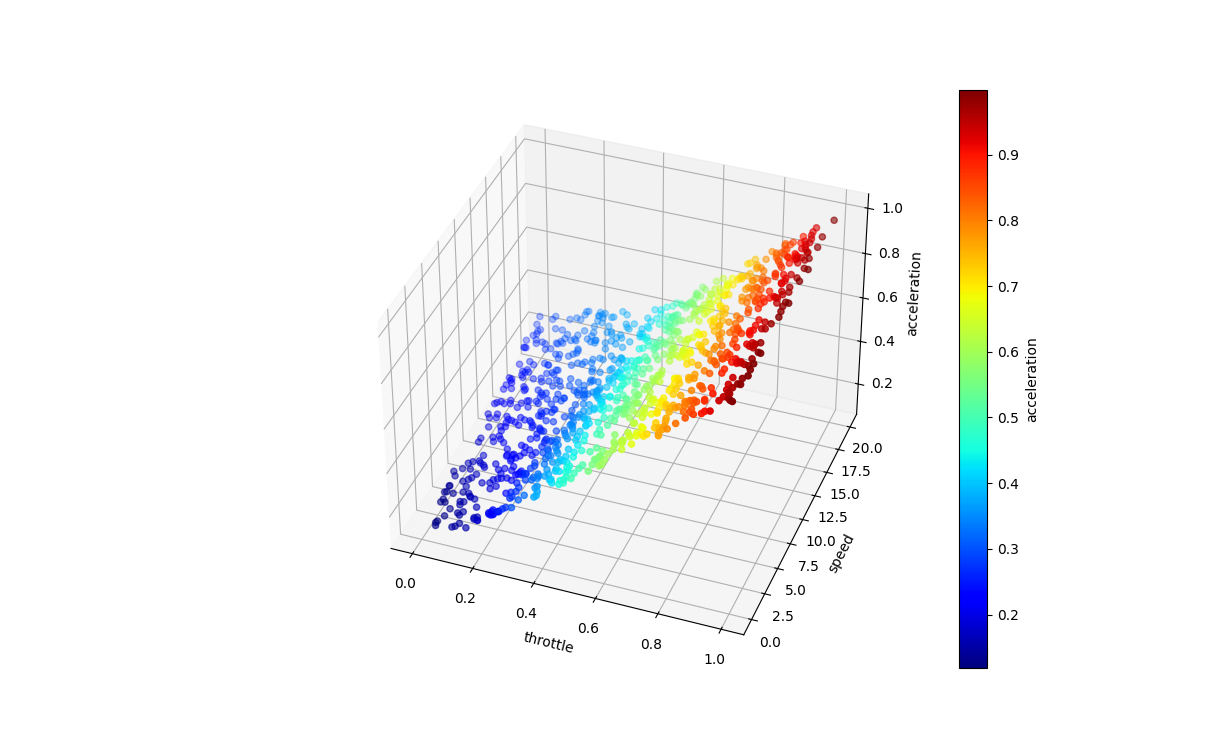
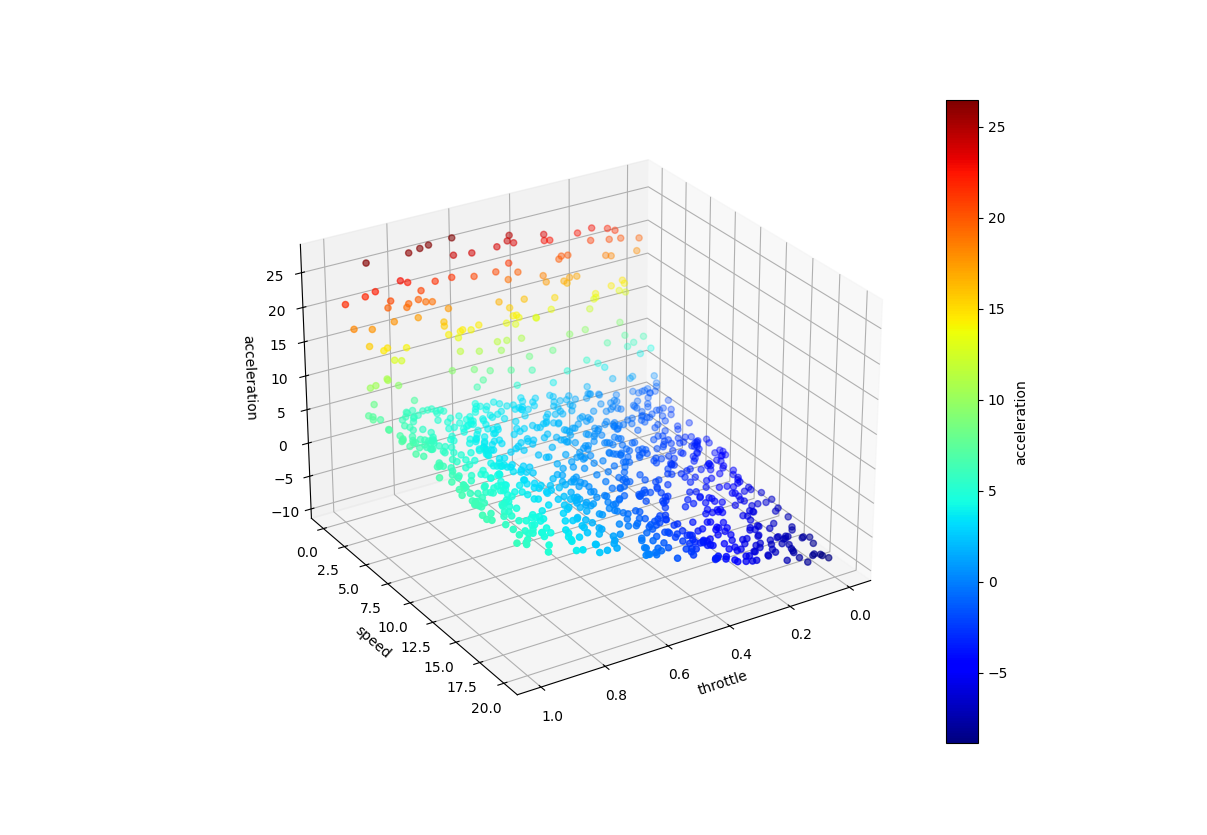
debugged

Changed region(s): [[0.2146, 0.184, 0.7664, 0.8587], [0.797, 0.1227, 0.8583, 0.8893], [0.1839, 0.3987, 0.2146, 0.4907]]

diff --git a/carla_scripts/neural/train_accvelmap.py b/carla_scripts/neural/train_accvelmap.py
@@ -31,11 +31,22 @@ if not os.path.exists(data_path):
     sys.exit(0)
 data = pd.read_csv(data_path)
 
+# filt the data
+# Apply the first condition
+condition1 = (data['acceleration'] < 20) & (data['speed'].abs() < 0.1)
+# Apply the second condition
+condition2 = data['speed'] > 30
+# Combine conditions with OR (|) since rows should be deleted if they meet either condition
+combined_condition = condition1 | condition2
+# Invert the combined condition and use it to filter the DataFrame
+data = data[~combined_condition]
+
+
 # self defined model
-train_size = 0.85
+train_size = 0.99
 learning_rate = 5e-4
 batch_size = 32
-epochs = 100
+epochs = 1000
 
 class CustomDataset(Dataset):
     def __init__(self, n_input, n_output):
@@ -49,7 +60,7 @@ class CustomDataset(Dataset):
         return self.input[idx], self.output[idx]
     
 def main():
-    train_x, test_x, train_y, test_y = train_test_split(data[["throttle", "speed"]].values, data[["throttle"]].values, test_size=1-train_size)
+    train_x, test_x, train_y, test_y = train_test_split(data[["throttle", "speed"]].values, data[["acceleration"]].values, test_size=1-train_size)
     train_dataset = CustomDataset(train_x, train_y)
     test_dataset = CustomDataset(test_x, test_y)
 

diff --git a/carla_scripts/neural/test_accvelmap.py b/carla_scripts/neural/test_accvelmap.py
@@ -30,6 +30,12 @@ throttle = torch.tensor(df["throttle"].values)
 speed = torch.tensor(df["speed"].values)
 minput = torch.stack([throttle, speed], dim=1)
 
+# test 1 example
+# ["throttle", "speed"]
+tempinput = torch.tensor([1.0, 30])
+output = model(tempinput)
+print(f"the acceleration is: {output.detach().numpy()[0]} m/s^2")
+
 import matplotlib.pyplot as plt
 
 # Assuming 'output', 'df["throttle"]', and 'df["speed"]' are defined and valid

diff --git a/README.md b/README.md
@@ -174,6 +174,22 @@ To implement the acceleration control, I tested the car with different throttle 
 
 ![throttle speed map tested in carla](./pictures/speed%20throttle%20acc%20tested%20in%20carla.png)
 
+to make the neural network keep far away from the bad data as shown in picture below, I applied the following data filter:
+
+![bad data](./pictures/Accel%20Throttle%20Speed%20map%20filtered.png)
+
+```python
+# filt the data
+# Apply the first condition
+condition1 = (data['acceleration'] < 20) & (data['speed'].abs() < 0.1)
+# Apply the second condition
+condition2 = data['speed'] > 30
+# Combine conditions with OR (|) since rows should be deleted if they meet either condition
+combined_condition = condition1 | condition2
+# Invert the combined condition and use it to filter the DataFrame
+data = data[~combined_condition]
+```
+
 To further use the throttle to control the acceleration, I created $2 \times10 \times 1$ linear [neural network](./carla_scripts/neural/train_accvelmap.py) to map the throttle to the acceleration. The result is shown below:
 
 ![neural network throttle speed map](./pictures/Accel%20Throttle%20Speed%20map.png)
